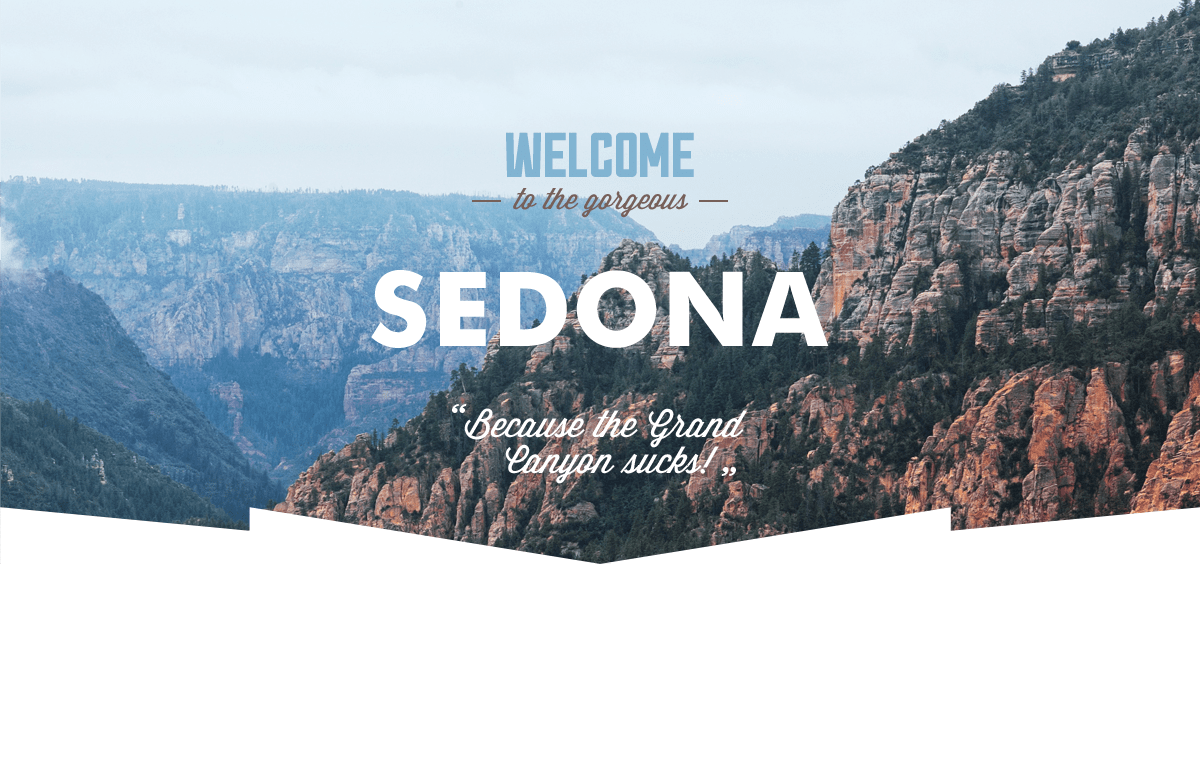
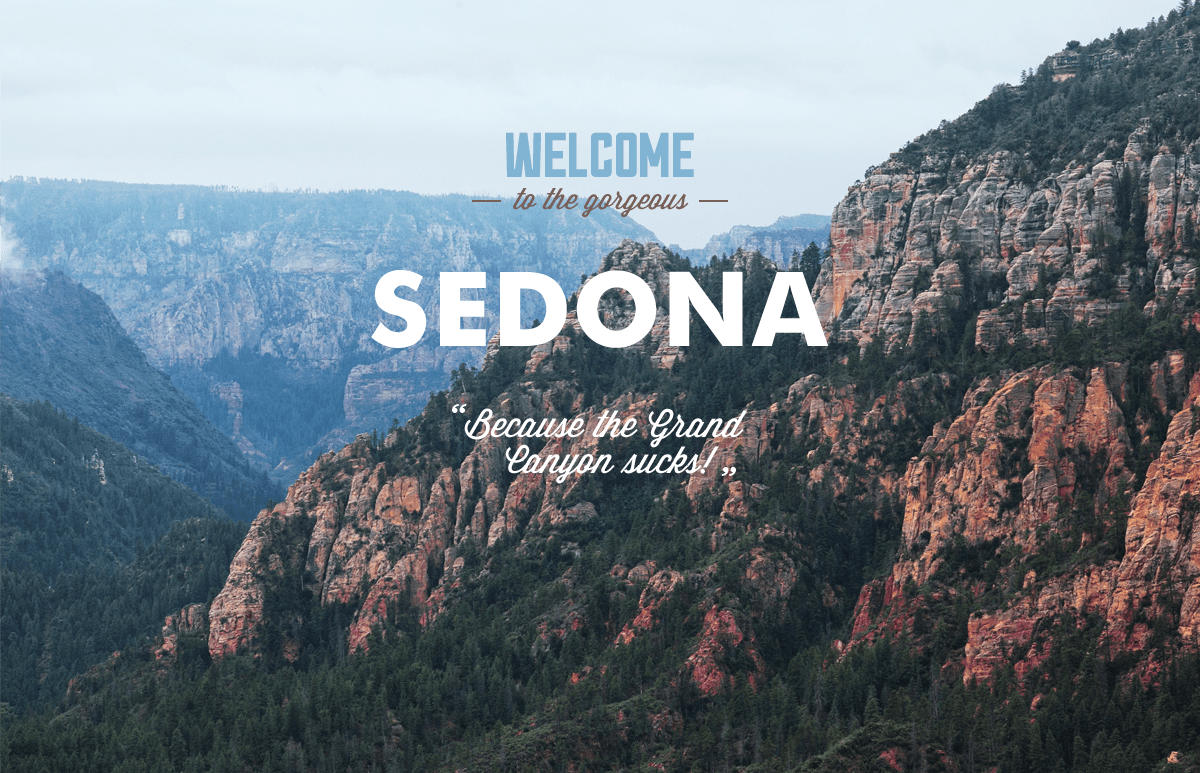
-

diff --git a/index.html b/index.html
@@ -9,21 +9,21 @@
    <div class="container">
     <header class="main-header">
       <nav class="main-navigation">
-        <a class="main-header-logo">
+        <a class="main-header-logo" href="index.html">
           <img src="img/logo.svg" width="115" height="55" alt="Логотип города Седона">
         </a>
         <ul class="site-navigation">
-          <li><a href="info.html"><img src="img/info.png"></a></li>
-          <li><a href="photos_and_videos.html"><img src="img/photos & videos.png"></a></li>
-          <li><a href="state-map"><img src="img/map.png"></a></li>
-          <li><a href="hotels.html"><img src="img/hotels.png"></a></li>          
+          <li><a href="info.html">Информация</a></li>
+          <li><a href="photos_and_videos.html">Фото и видео</a></li>
+          <li><a href="index.html#map">Карта штата</a></li>
+          <li><a href="hotels.html">Гостиницы</a></li>           
         </ul>
       </nav>
     </header>
     <main>
        <section class="intro">
           <!--<h2 class="visually-hidden">Седона</h2>-->
-          <img src="img/intro.png" width="1200" height="780" alt="Welcome">          
+          <img src="img/intro.png" width="1200" height="773" alt="Welcome">          
        </section>
        <section class="features">
             <div class="features-head">               

diff --git a/hotels.html b/hotels.html
@@ -9,14 +9,14 @@
    <div class="container">
     <header class="main-header">
       <nav class="main-navigation">
-        <a class="main-header-logo">
+        <a class="main-header-logo" href="index.html">
           <img src="img/logo.svg" width="115" height="55" alt="Логотип города Седона">
         </a>
         <ul class="site-navigation">
-          <li><a href="info.html"><img src="img/info.png"></a></li>
-          <li><a href="photos_and_videos.html"><img src="img/photos & videos.png"></a></li>
-          <li><a href="state-map"><img src="img/map.png"></a></li>
-          <li><a href="hotels.html"><img src="img/hotels.png"></a></li>          
+          <li><a href="info.html">Информация</a></li>
+          <li><a href="photos_and_videos.html">Фото и видео</a></li>
+          <li><a href="index.html#map">Карта штата</a></li>
+          <li><a class="current" href="hotels.html">Гостиницы</a></li>          
         </ul>
       </nav>
     </header>
